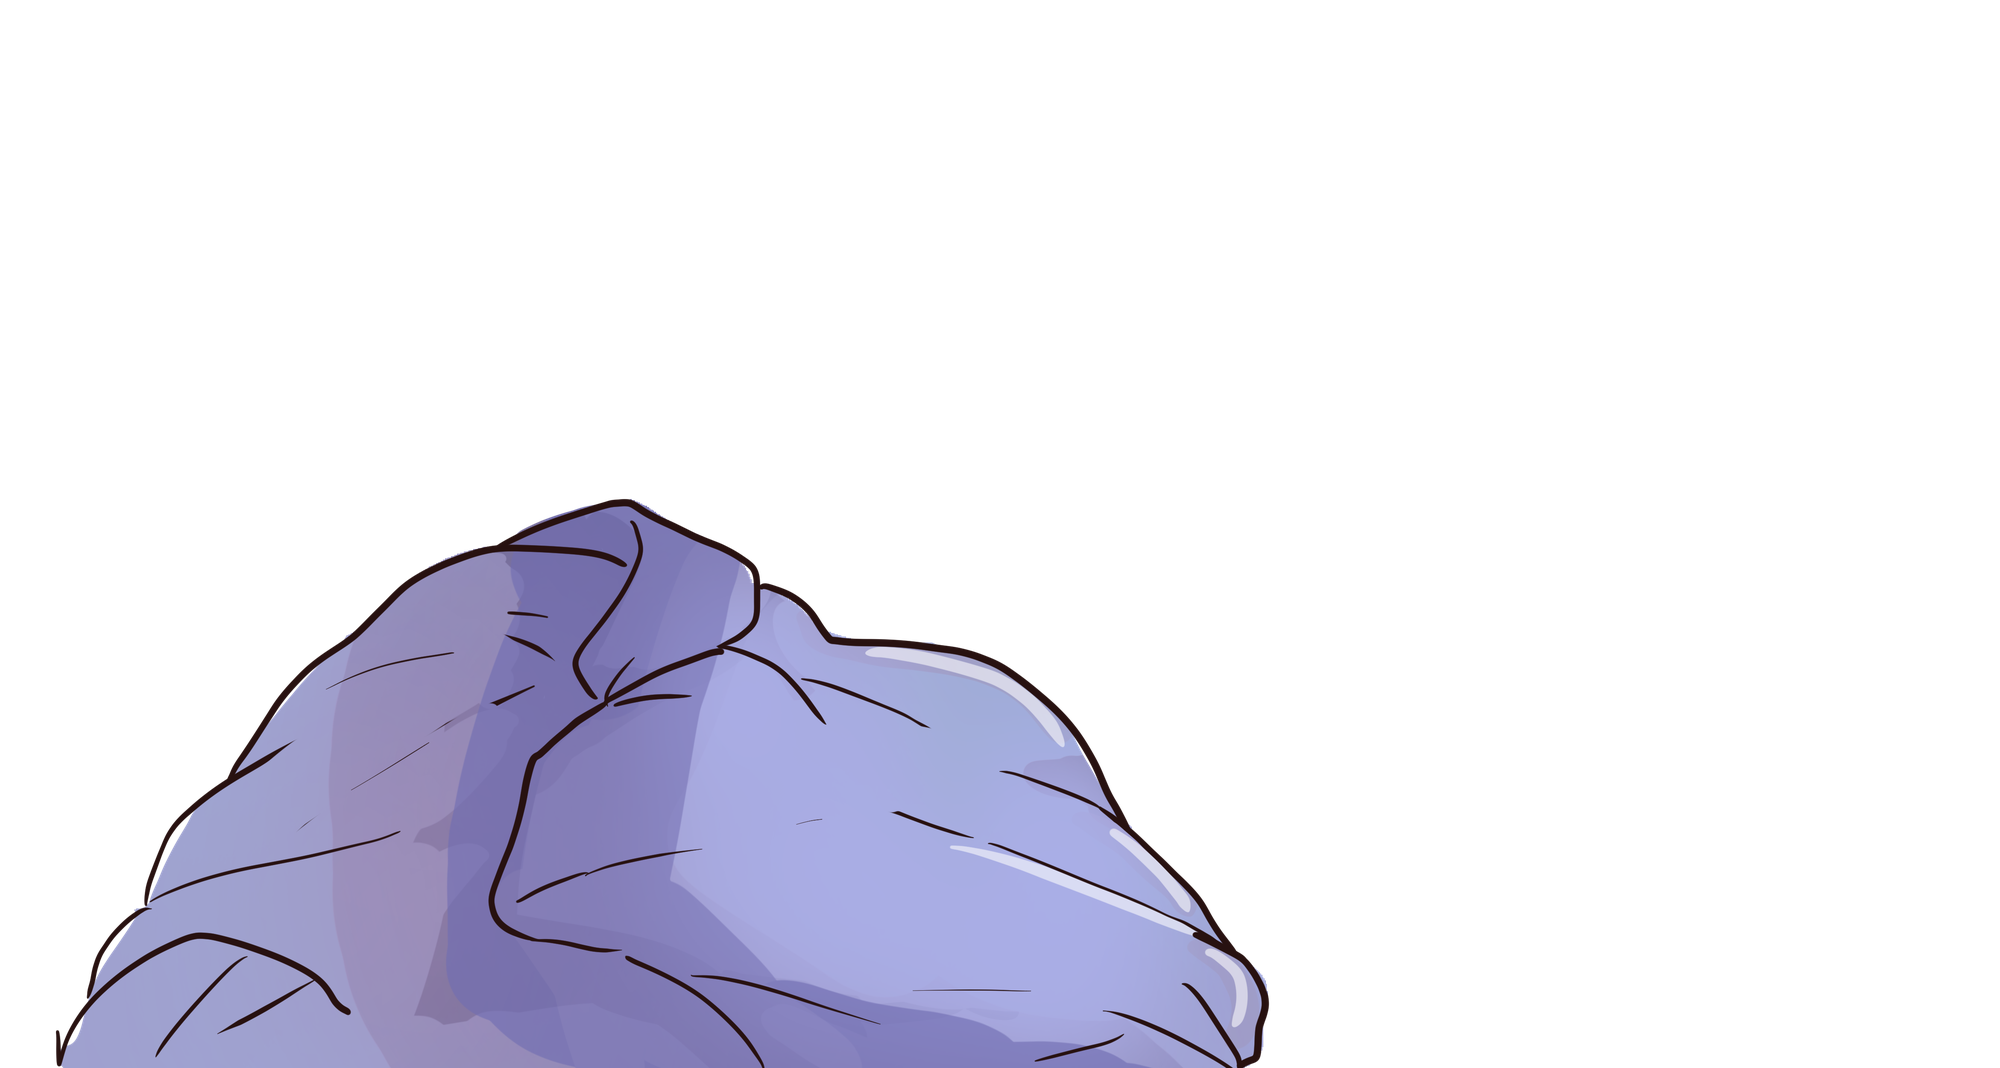
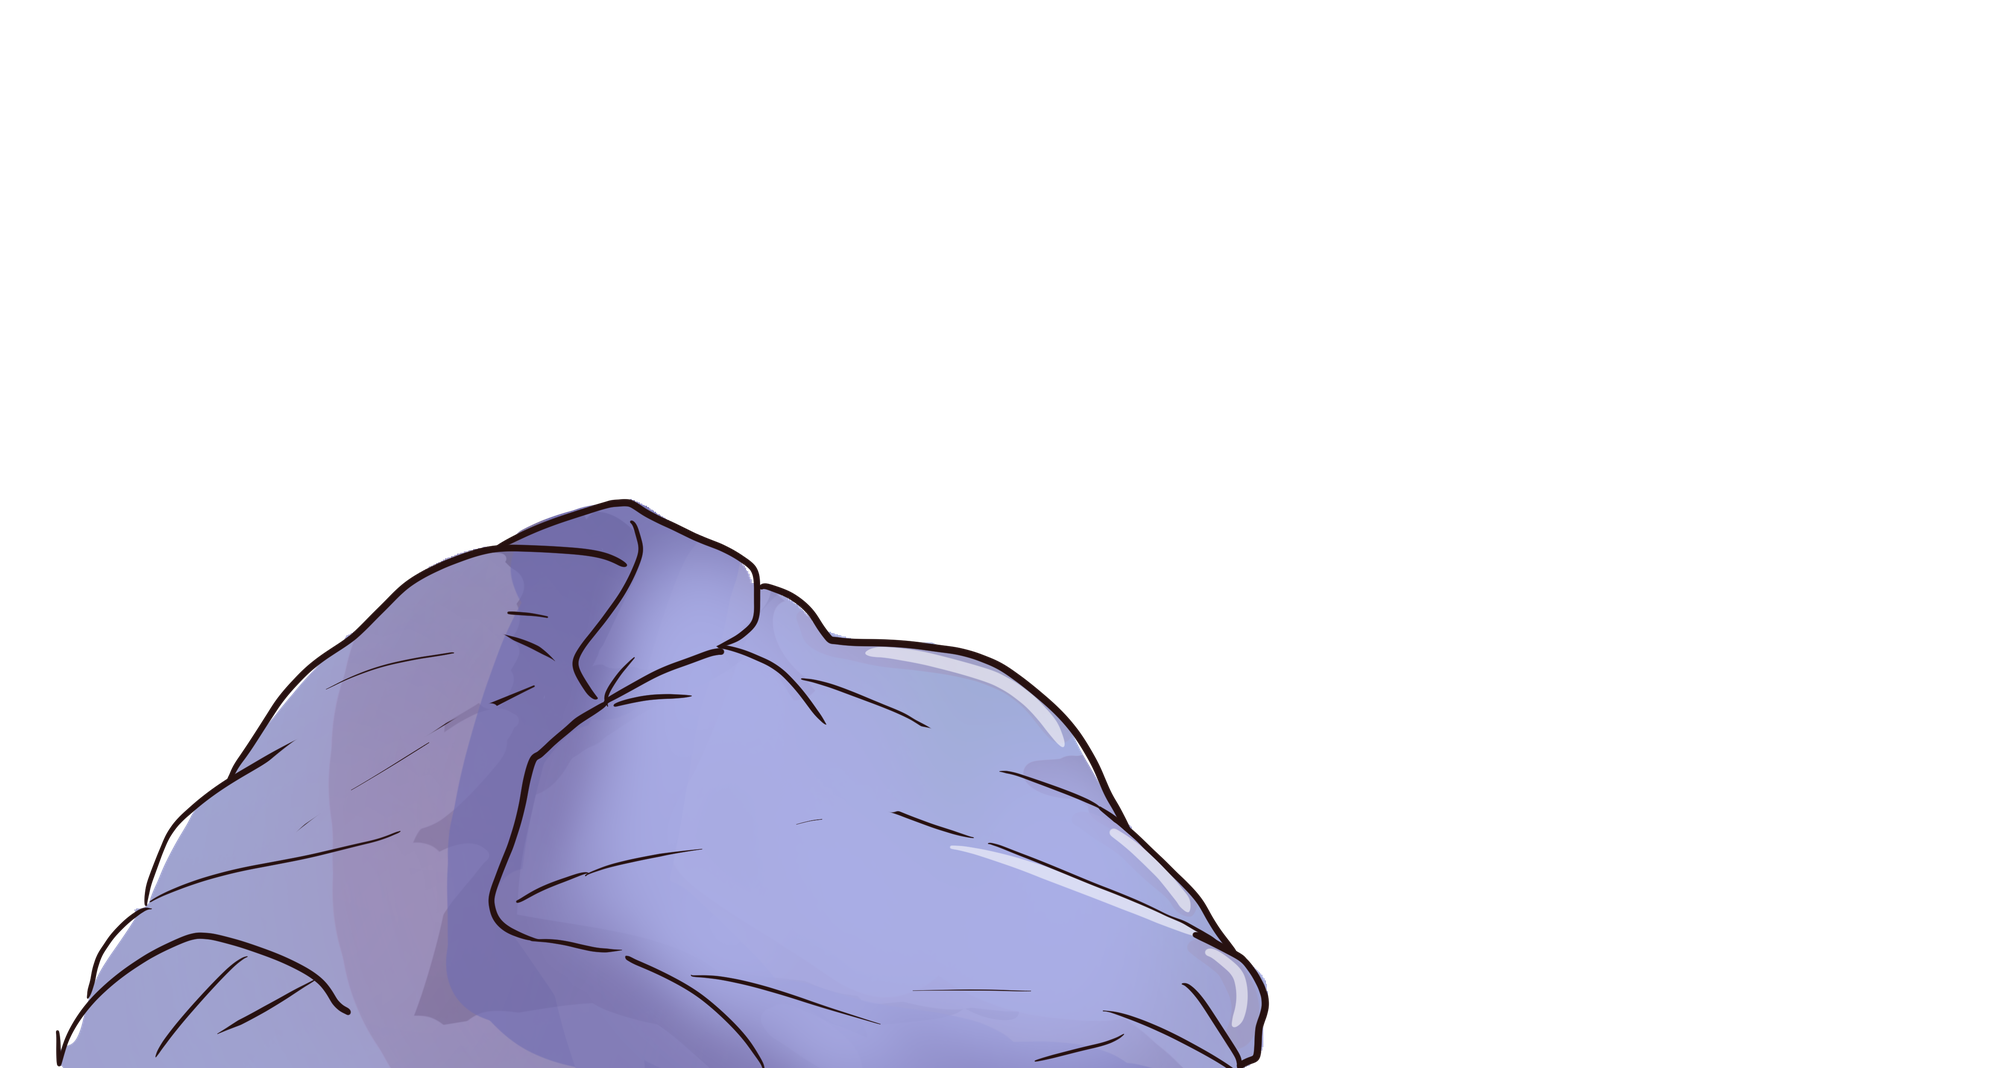
踢開被子圖更換；捏臉時嘴巴換成倒笑（笑上下翻轉），放手還原
Claude-Session: https://claude.ai/code/session_01NjsDQCikeeWn25cFJhbgoA

Changed region(s): [[0.279, 0.5253, 0.558, 1.0]]

diff --git a/Scripts/UI/TrainingRoomRuntime.Mouth.cs b/Scripts/UI/TrainingRoomRuntime.Mouth.cs
@@ -135,6 +135,7 @@ public partial class TrainingRoomRuntime
     public void TriggerMouthSmile() { }
 
     string _mouthShown;
+    bool   _pinchMouthOn;   // 捏臉中嘴巴正顯示倒笑（放手時要還原）
     float  _mouthScaleX = 1f;
 
     void UpdateMouthOperate(float dt)
@@ -158,6 +159,20 @@ public partial class TrainingRoomRuntime
         _mouthSmileT -= dt;
         _mouthNearTarget = 1f;
         if (!MouthReactOnOperate || FaceController == null || !FaceController.IsReady) return;
+
+        // 捏臉（按住臉頰拖動）時：嘴巴換成倒笑（「笑」上下翻轉，跟說話張嘴用的是同一招）；放手就還原
+        if (_pinchDrag)
+        {
+            _pinchMouthOn = true;
+            ShowOnlyMouth("笑");
+            ApplyMouthScale("笑", new Vector2(1f, -1f));
+            return;
+        }
+        if (_pinchMouthOn)
+        {
+            _pinchMouthOn = false;
+            ReleaseMouth("");
+        }
 
         // 若正在用舌頭親嘴（_tongueOn），嘴巴圖層由 TongueOverlay 遮蓋，不顯示底層嘴巴
         if (_tongueOn)
